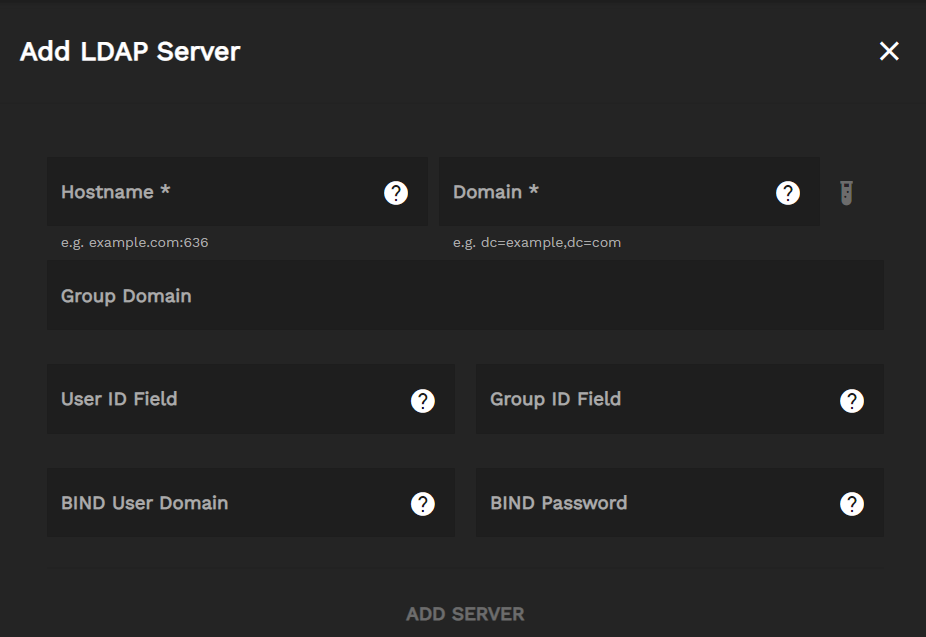
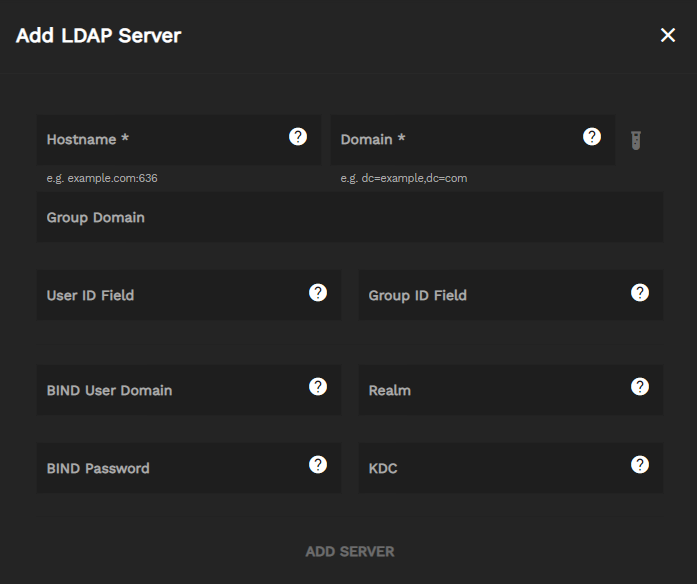
Update LDAPServers.md

diff --git a/content/TrueCommand/Administration/LDAPServers.md b/content/TrueCommand/Administration/LDAPServers.md
@@ -7,9 +7,9 @@ weight: 40
 
 Users can configure TrueCommand to use LDAP servers for security and authentication management among connected TruNAS systems.
 
-## Configure LDAP Server
+## Add an LDAP Server in TrueCommand
 
-Click the gear icon in the upper toolbar and select **Administration**. Scroll down to **LDAP Servers** and click **ADD**.
+Click the gear icon in the upper toolbar and select **Administration**. Scroll down to the **LDAP Servers** widget and click **ADD**.
 
 ![AddLDAPServer](/images/TrueCommand/AddLDAPServer.png "Add LDAP Servers")
 
@@ -17,8 +17,49 @@ Click the gear icon in the upper toolbar and select **Administration**. Scroll d
 |---------|-------------|
 | **Hostname** | Hostname of LDAP/AD server, with optional port. e.g. example.com:636. |
 | **Domain** | LDAP base domain. e.g. dc=example,dc=com. |
-| **Group Domain** | Optional for admins that want to avoid issues with unwanted groups by forcing group searches to start at a deeper domain . |
-| **User ID Field** | Class mapped to login username. Default is uid. |
-| **Group ID Field** | Class for finding groups associated with user. Default is cn. |
+| **Group Domain** | Optional for admins that want to avoid issues with unwanted groups by forcing group searches to start at a deeper domain. |
+| **User ID Field** | Class mapped to login username. The default is uid. |
+| **Group ID Field** | Class for finding groups associated with a user. The default is cn. |
 | **BIND User Domain** | Full user domain for binding before finding user FQID. Optional. |
-| **BIND Password** | If bind user is set, use this password when performing simple bind on user search. |
+| **Realm** | The realm that performs authentication against the LDAP server. |
+| **BIND Password** | If bind user is set, use this password when performing a simple bind on user search. |
+| **KDC** | The Kerberos Key Distribution Center that supplies session tickets and temporary session keys to users and computers within the LDAP server. |
+
+Once you fill the form according to your server, click **ADD SERVER**.
+
+Click **CONFIGURE** in the **Configuration** widget and enable **Allow LDAP user creation**, then click **SAVE**.
+
+## Updating the LDAP Server
+
+TrueCommand only checks for usernames and passwords when authenticating LDAP credentials. You may add entries for email, phone number, or URLs, but TrueCommand does not check for them.
+
+The LDAP server uses an LDAP Data Interchange Format (LDIF) file to add or modify entries in the server.
+
+For more in-depth LDAP configuration methods, see this [LDAP System Administration](https://www.oreilly.com/library/view/ldap-system-administration/1565924916/ch04s05.html) guide.
+
+### Add New Entries to the Directory
+
+Enter the following command to add entries to the LDIF file. Separate specifications (cn, dc, etc.) with a comma. 
+
+```
+$ ldapmodify -D "uid=USER,dc=DOMAIN,dc=DOMAIN" -w secret \
+> -x -a -f /tmp/users.ldif
+```
+
+`USER` is the user ID.
+`DOMAIN` is a domain component like com, edu, org, etc.
+
+If the command succeeds, you will see an output like this:
+
+`adding new entry "uid=USER,dc=DOMAIN,dc=DOMAIN"`
+
+### Modify Entries on the Directory
+
+If, for instance, the user you added does not yet have a password, you can add it with the following command.
+
+```
+dn: uid=USER,dc=DOMAIN,dc=DOMAIN"
+changetype: modify
+add: password
+password: USER@DOMAIN.DOMAIN
+```
